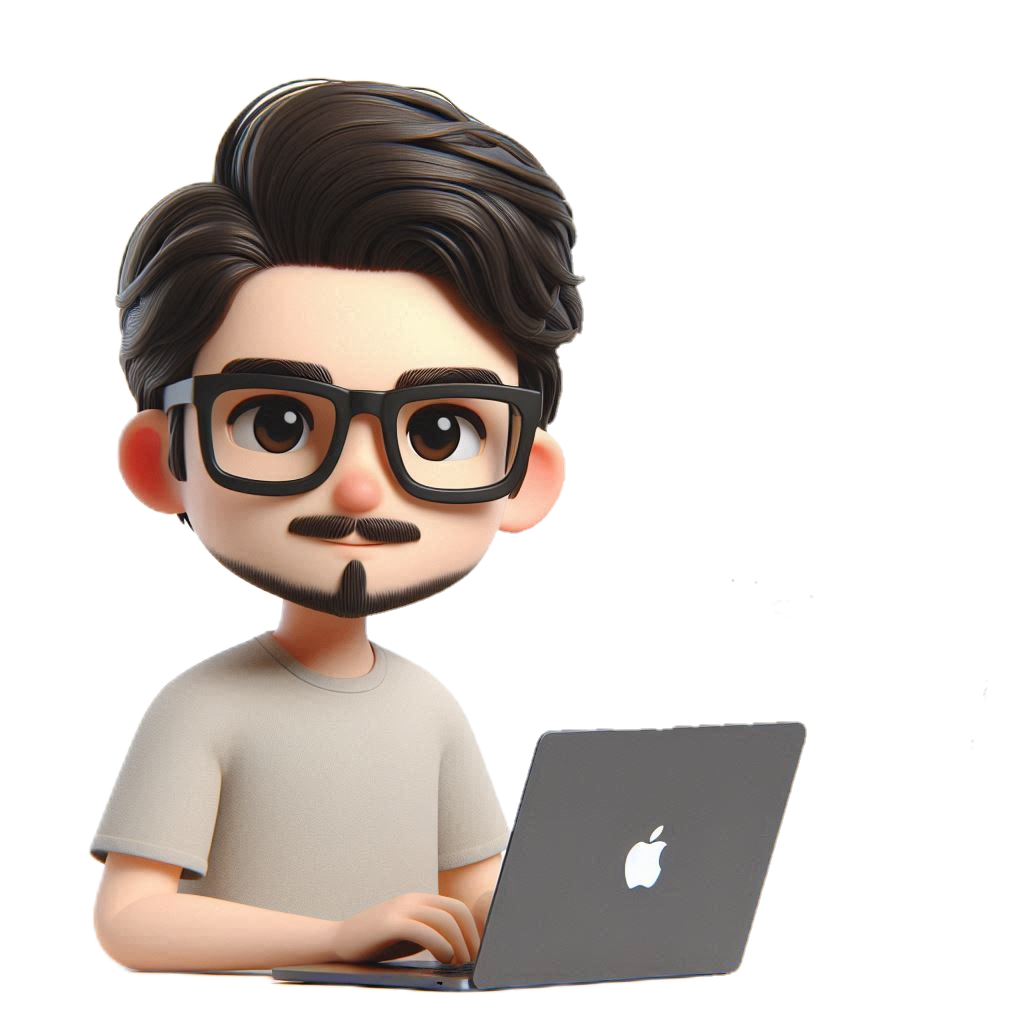
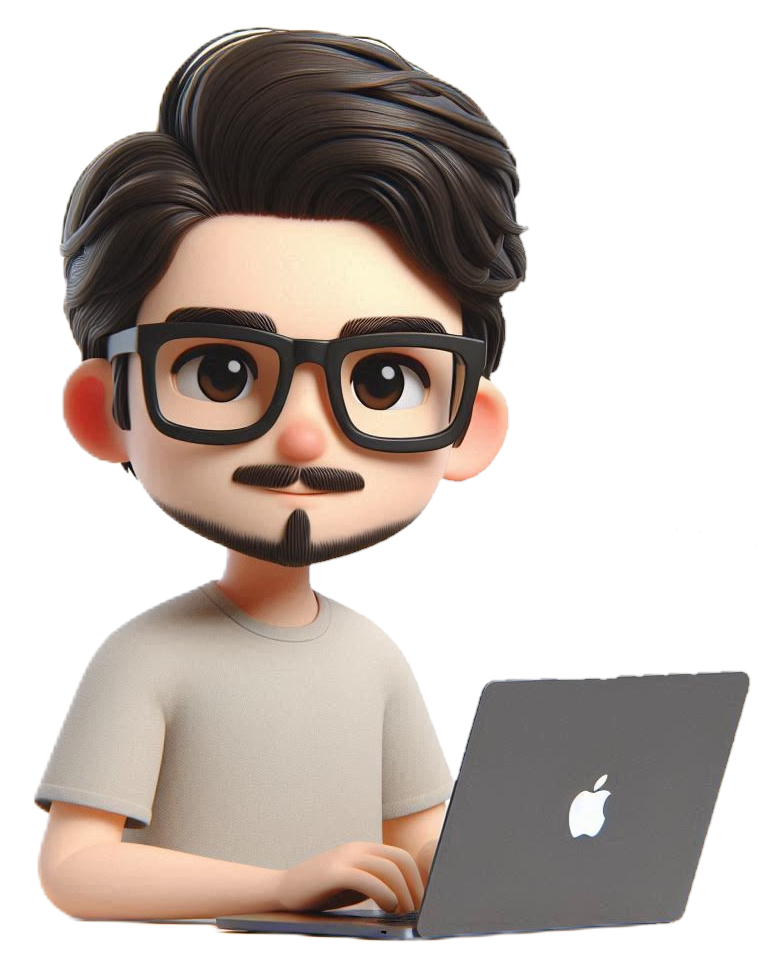
feat: add projects section

diff --git a/src/components/Hero/index.tsx b/src/components/Hero/index.tsx
@@ -1,9 +1,9 @@
 "use client";
 
-import Image from "next/image";
-import { Center, Flex, Heading, Stack } from "@chakra-ui/react";
+import { Box, Center, Flex, Heading, Stack } from "@chakra-ui/react";
+import { Image } from "@chakra-ui/next-js";
 import { motion } from "framer-motion";
-import programmer_img from "@/assets/programmer.png"
+import programmer_img from "@/assets/programmer.png";
 
 // appears from the left
 const fromLeft = {
@@ -21,27 +21,33 @@ const MotionCenter = motion(Center);
 
 const Hero = () => {
   return (
-    <Flex direction={["column", "row"]} padding={[8, 28]}>
+    <Flex
+      direction={{ base: "column", md: "row" }}
+      paddingX={[8, 28]}
+      paddingY={4}
+      overflow="hidden"
+      align="center"
+      justify="space-between"
+    >
       <MotionStack
         variants={fromLeft}
         initial="hidden"
         animate="visible"
-        width={{ base: "100%", md: "50%" }}
+        width={{ base: "100%", md: "60%" }}
         justifyContent="center"
       >
-        <Heading as="h2" fontSize="2xl">
+        <Heading as="h2" fontSize="xl">
           HELLO, FRIEND. I AM
         </Heading>
         <Heading
           as="h1"
-          fontSize="6xl"
+          fontSize="5xl"
           bgGradient="linear(to-r, main.blueMarguerite, main.blue600)"
           bgClip="text"
-          // textFillColor="transparent"
         >
           KELVIN LEANDRO
         </Heading>
-        <Heading as="h2" fontSize="2xl">
+        <Heading as="h2" fontSize="xl">
           FRONT-END AND MOBILE DEVELOPER
         </Heading>
       </MotionStack>
@@ -50,9 +56,21 @@ const Hero = () => {
         variants={fadeIn}
         initial="hidden"
         animate="visible"
-        width={{ base: "100%", md: "50%" }}
+        width={{ base: "100%", md: "40%" }}
+        maxW={{md: "200px"}}
+        overflow="hidden"
       >
-        <Image src={programmer_img} alt="programmer image" />
+        <Box width="100%" height="auto" >
+          <Image
+            src={programmer_img}
+            alt="programmer image"
+            style={{
+              width: "100%",
+              height: "auto",
+              objectFit: "contain",
+            }}
+          />
+        </Box>
       </MotionCenter>
     </Flex>
   );

diff --git a/src/constants/projects.ts b/src/constants/projects.ts
@@ -1,0 +1,55 @@
+import ubuntu from "@/assets/ubuntu.png";
+import kgpt from "@/assets/k-gpt.png";
+import clapperflix from "@/assets/clapperflix.png";
+import todo from "@/assets/todo.png";
+import { Project } from "@/types/project";
+
+const REACT_PROJECTS: Project[] = [
+  {
+    title: "Ubuntu Interface",
+    description:
+      "A recreation of the Ubuntu/GNOME home interface, including the top bar and app grid",
+    url: "https://github.com/kelvinleandro/ubuntu-react",
+    imagePath: ubuntu,
+  },
+  {
+    title: "K-GPT",
+    description:
+      "A ChatBot, visually inspired by the ChatGPT UI, utilizing the OpenAI API to provide AI responses",
+    url: "https://github.com/kelvinleandro/chatgpt-clone-site",
+    imagePath: kgpt,
+  },
+  {
+    title: "K-GPT",
+    description:
+      "A ChatBot, visually inspired by the ChatGPT UI, utilizing the OpenAI API to provide AI responses",
+    url: "https://github.com/kelvinleandro/chatgpt-clone-site",
+    imagePath: kgpt,
+  },
+];
+
+const REACT_NATIVE_PROJECTS: Project[] = [
+  {
+    title: "ClapperFlix",
+    description:
+      "A movie app using the TMDB API, featuring login and registration authentication with Firebase and Firestore to save favorite movies",
+    url: "https://github.com/kelvinleandro/movie-app",
+    imagePath: clapperflix,
+  },
+  {
+    title: "TODO App",
+    description:
+      "The classic todo app, utilizing the Context API for performing CRUD operations and Expo SQLite for data persistence. Additionally, it supports theme customization.",
+    url: "https://github.com/kelvinleandro/todo-app",
+    imagePath: todo,
+  },
+  {
+    title: "TODO App",
+    description:
+      "The classic todo app, utilizing the Context API for performing CRUD operations and Expo SQLite for data persistence. Additionally, it supports theme customization.",
+    url: "https://github.com/kelvinleandro/todo-app",
+    imagePath: todo,
+  },
+];
+
+export { REACT_PROJECTS, REACT_NATIVE_PROJECTS };

diff --git a/src/components/ProjectList/ProjectItem.tsx b/src/components/ProjectList/ProjectItem.tsx
@@ -1,0 +1,59 @@
+import {
+  Card,
+  CardBody,
+  CardFooter,
+  Stack,
+  Heading,
+  Text,
+  Button,
+  Link,
+  useColorModeValue,
+} from "@chakra-ui/react";
+import { Image } from "@chakra-ui/next-js";
+import { Project } from "@/types/project";
+import GithubIcon from "../Icons/GithubIcon";
+
+type Props = {
+  item: Project;
+};
+
+const ProjectItem = ({ item }: Props) => {
+  const color = useColorModeValue("main.blue800", "main.creamWhite")
+  
+  return (
+    <Card
+      maxW="300px"
+      border="2px"
+      borderColor="main.grey300"
+      transition="border-color 0.3s ease"
+      _hover={{ borderColor: "main.blueMarguerite" }}
+    >
+      <CardBody>
+        <Image src={item.imagePath} alt={item.title} borderRadius="lg" />
+        <Stack mt={3} spacing={3}>
+          <Heading as="h4" fontSize="2xl">
+            {item.title}
+          </Heading>
+          <Text align="left">{item.description}</Text>
+        </Stack>
+      </CardBody>
+      <CardFooter>
+        <Button
+          as={Link}
+          href={item.url}
+          target="_blank"
+          leftIcon={<GithubIcon />}
+          variant="solid"
+          textDecoration="none"
+          color={color}
+          bg="rgba(127, 86, 217, 0.4)"
+          _hover={{ textDecoration: "none", bg: "main.blueMarguerite", color: "main.creamWhite" }}
+        >
+          View on GitHub
+        </Button>
+      </CardFooter>
+    </Card>
+  );
+};
+
+export default ProjectItem;

diff --git a/src/components/Projects/index.tsx b/src/components/Projects/index.tsx
@@ -1,0 +1,37 @@
+import React from "react";
+import SectionTitle from "../SectionTitle";
+import { Flex, Box, Heading, Center } from "@chakra-ui/react";
+import { REACT_PROJECTS, REACT_NATIVE_PROJECTS } from "@/constants/projects";
+import ProjectList from "../ProjectList";
+
+const Projects = () => {
+  return (
+    <Flex
+      justifyContent="center"
+      direction="column"
+      gap={4}
+      marginY={4}
+      align="center"
+    >
+      <Box>
+        <SectionTitle>Projects</SectionTitle>
+      </Box>
+
+      <Center paddingX={[8, 28]} flexDirection="column" marginTop={2}>
+        <Heading as="h3" fontSize="2xl" marginY={3}>
+          REACT
+        </Heading>
+        <ProjectList data={REACT_PROJECTS} />
+      </Center>
+      
+      <Center paddingX={[8, 28]} flexDirection="column" marginTop={2}>
+        <Heading as="h3" fontSize="2xl" marginY={3}>
+          REACT NATIVE
+        </Heading>
+        <ProjectList data={REACT_NATIVE_PROJECTS} />
+      </Center>
+    </Flex>
+  );
+};
+
+export default Projects;

diff --git a/src/app/page.tsx b/src/app/page.tsx
@@ -2,20 +2,20 @@
 
 import Header from "@/components/Header";
 import Hero from "@/components/Hero";
-import { Flex, useColorModeValue } from "@chakra-ui/react";
+import { Flex } from "@chakra-ui/react";
 import "./globals.css";
 import AboutMe from "@/components/AboutMe";
 import Footer from "@/components/Footer";
+import Projects from "@/components/Projects";
 
 export default function Home() {
-  const bg = useColorModeValue("main.creamWhite", "main.blue800");
-  const color = useColorModeValue("main.blue800", "main.creamWhite");
 
   return (
-    <Flex direction="column" width="100vw">
+    <Flex direction="column" width="100%">
       <Header />
       <Hero />
       <AboutMe />
+      <Projects />
       <Footer />
     </Flex>
   );

diff --git a/src/components/ProjectList/index.tsx b/src/components/ProjectList/index.tsx
@@ -1,0 +1,26 @@
+import React from "react";
+import { Flex } from "@chakra-ui/react";
+import { Project } from "@/types/project";
+import ProjectItem from "./ProjectItem";
+
+type Props = {
+  data: Project[];
+};
+
+const ProjectList = ({ data }: Props) => {
+  return (
+    <Flex
+      direction={{ base: "column", md: "row" }}
+      wrap="wrap"
+      align="center"
+      justify="center"
+      gap={6}
+    >
+      {data.map((item, index) => (
+        <ProjectItem key={index} item={item} />
+      ))}
+    </Flex>
+  );
+};
+
+export default ProjectList;

diff --git a/src/app/layout.tsx b/src/app/layout.tsx
@@ -1,5 +1,5 @@
 import type { Metadata } from "next";
-import { Inter, Fira_Code } from "next/font/google";
+import { Fira_Code } from "next/font/google";
 import "./globals.css";
 import { Providers } from "./providers";
 
@@ -17,7 +17,9 @@ export default function RootLayout({
   return (
     <html lang="en">
       <body className={fira.className}>
-        <Providers>{children}</Providers>
+        <Providers>
+          {children}
+        </Providers>
       </body>
     </html>
   );

diff --git a/src/components/AboutMe/index.tsx b/src/components/AboutMe/index.tsx
@@ -3,7 +3,7 @@ import SectionTitle from "../SectionTitle";
 
 const AboutMe = () => {
   return (
-    <Flex justifyContent="center" direction="column" gap={4}>
+    <Flex justifyContent="center" direction="column" gap={4} marginY={4}>
       <Box>
         <SectionTitle>ABOUT ME</SectionTitle>
       </Box>

diff --git a/src/components/Header/index.tsx b/src/components/Header/index.tsx
@@ -7,7 +7,7 @@ const Header = () => {
   const { colorMode, toggleColorMode } = useColorMode();
 
   return (
-    <Flex justify="space-between">
+    <Flex justify="space-between" paddingX={[8, 20]} paddingY={3} align="center">
       <Logo />
       <IconButton
         aria-label="Toggle theme"

diff --git a/src/components/Logo/index.tsx b/src/components/Logo/index.tsx
@@ -5,7 +5,7 @@ import TypeWriter from "../TypeWriter";
 const Logo = () => {
   return (
     <Link href="/">
-      <TypeWriter text="<  Kelvin />" size="lg" fontWeight="bold" />
+      <TypeWriter text="<  Kelvin />" fontSize="lg" fontWeight="bold" />
     </Link>
   );
 };

diff --git a/src/types/project.ts b/src/types/project.ts
@@ -1,6 +1,8 @@
-interface Project {
+import { StaticImageData } from "next/image";
+
+export interface Project {
   title: string;
   description: string;
   url: string;
-  imagePath: string;
+  imagePath: string | StaticImageData;
 }

diff --git a/src/components/Footer/index.tsx b/src/components/Footer/index.tsx
@@ -12,6 +12,7 @@ const Footer = () => {
       justify={["center", "space-between"]}
       gap={4}
       paddingX={[8, 28]}
+      paddingY={4}
       marginTop={8}
     >
       <Stack direction="row" spacing={3}>
